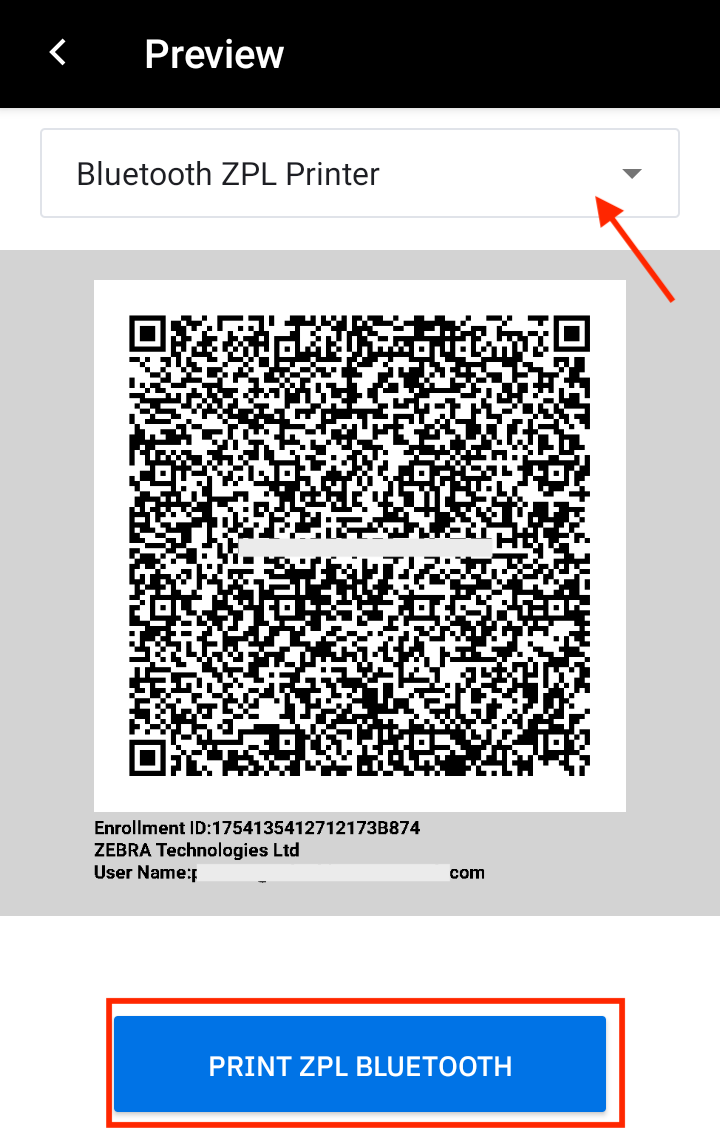
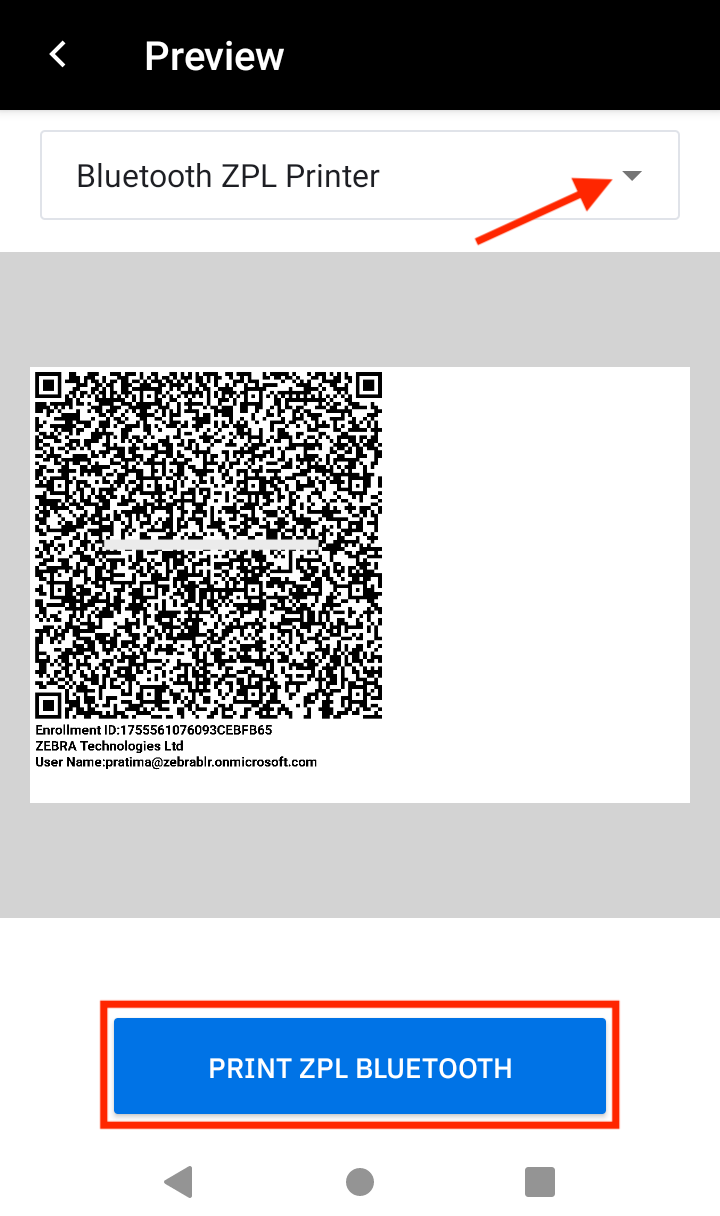
[TUT-116369] IG 2.2 - zCreator

diff --git a/identityguardian/2-2/usage/index.html b/identityguardian/2-2/usage/index.html
@@ -313,7 +313,7 @@ Other features:
 
 
 <ul>
-<li>Enter ID or email (<strong>Note:</strong> This is case-sensitive — the string entered <em>must</em> exactly match that from the identity provider. Discrepancies may lead to authentication issues or failure if using the <a href="#autofillssologin">Auto-Fill SSO Login</a> feature.)</li>
+<li>Enter ID or email (Maximum of 60 characters. <strong>Note:</strong> This is case-sensitive — the string entered <em>must</em> exactly match that from the identity provider. Discrepancies may lead to authentication issues or failure if using the <a href="#autofillssologin">Auto-Fill SSO Login</a> feature.)</li>
 
 <li>(Optional) Select the appropriate user role (options vary based on your adminstrator setup)</li>
 
@@ -334,31 +334,42 @@ Other features:
 <li>Position your face within the device screen for the photo capture. Capture 1 to 3 facial photos that may vary based on the individual's look, for example, with eyeglasses, hat, etc. Confirm the photo capture(s). Tap <strong>Add</strong> to capture additional photos. Tap <strong>Next</strong> when done.
 <img alt="image" style="height:350px" src="face-capture-added.png"></li>
 
-<li>The user barcode is generated and saved as a PDF file in the <code>/enterprise/usr/profiles</code> folder on the device. Tap <strong>Next.</strong>
+<li>The user barcode is generated. Tap <strong>Next.</strong>
 <img alt="image" style="height:350px" src="barcode.png"></li>
 
-<li>Complete the enrollment process by choosing one of the following:
+<li>Complete the enrollment process by choosing one of the following, based on configurations by your administrator:
 
 
 <ul>
 <li><strong>No Barcodes:</strong> If barcode printing is not configured, tap <strong>Save</strong> to finalize the enrollment process.
 <img alt="image" style="height:350px" src="standard-enrollment-save.png"></li>
 
-<li><strong>Print or Share the Barcode:</strong> Tap <strong>Print</strong> to launch the zCreator app, where the barcode is displayed on the preview screen. For instructions on printing or sharing the barcode, see <a href="#printsharebarcode">Print &amp; Share Barcode</a>. 
+<li><strong>Print or Share the Barcode:</strong> Print and share buttons are visible.
 
 
 <ul>
-<li>After printing or sharing, tap the back button to return to Identity Guardian, then tap <strong>Continue</strong> to complete enrollment.
+<li><strong>Print or Share Barcode:</strong> Tap <strong>Print.</strong> This launches the zCreator app with the barcode displayed on the preview screen. For instructions on printing or sharing the barcode, see <a href="#printsharebarcode">Print &amp; Share Barcode</a>. After printing or sharing, tap the back button in zCreator to return to Identity Guardian, then tap <strong>Continue</strong> to complete enrollment. <strong>Note:</strong> This option does not save the barcode.
 <table>
-<tbody><tr>
-    <td><img alt="image" style="height:350px" src="standard-enrollment-print.png"></td>
-    <td>&nbsp;&nbsp;&nbsp;&nbsp;&nbsp;</td>
-    <td><img alt="image" style="height:350px" src="congrats-shared.png"></td>
-</tr>
+    <tbody><tr>
+        <td><img alt="image" style="height:350px" src="standard-enrollment-print.png"></td>
+        <td>&nbsp;&nbsp;&nbsp;&nbsp;&nbsp;</td>
+        <td><img alt="image" style="height:350px" src="standard-enroll-print-preview.png"></td>
+        <td>&nbsp;&nbsp;&nbsp;&nbsp;&nbsp;</td>
+        <td><img alt="image" style="height:350px" src="congrats-shared.png"></td>
+    </tr>
+</tbody></table></li>
+
+<li><strong>Save Barcode:</strong> Tap <strong>Save.</strong> The barcode is saved as a PDF file in the <code>/enterprise/usr/profiles</code> folder on the device, accessible by <a href="#afterenrollment">zCreator</a> after enrollment.
+<table>
+    <tbody><tr>
+        <td><img alt="image" style="height:350px" src="standard-enrollment-print.png"></td>
+        <td>&nbsp;&nbsp;&nbsp;&nbsp;&nbsp;</td>
+        <td><img alt="image" style="height:350px" src="congrats-shared.png"></td>
+    </tr>
 </tbody></table></li></ul>
 </li>
 
-<li><strong>Save the Barcode:</strong> To skip printing or sharing the barcode immediately, tap <strong>Save,</strong> and then tap <strong>Continue</strong> to finalize the enrollment process.
+<li><strong>Save the Barcode:</strong> Save button is visible. To save the barcode without printing or sharing, tap <strong>Save.</strong> A message appears indicating the barcode was generated. Tap <strong>Continue</strong> to finalize the enrollment process.
 <table>
 <tbody><tr>
     <td><img alt="image" style="height:350px" src="standard-enrollment-save.png"></td>
@@ -369,7 +380,7 @@ Other features:
 </li>
 </ol>
 
-<p><strong>Optional:</strong> If using the <a href="#printsharebarcode">zCreator app</a>, open zCreator at any time to view, print or share the saved barcode.</p>
+<p>To retrieve the saved barcode for printing or sharing after enrollment, use the <a href="#printsharebarcode">zCreator app</a>. Open zCreator at any time to view, print or share the stored barcode.</p>
 
 <p>After completing enrollment, the user can then <a href="../usage/#signinauthentication">sign in</a> to the shared device where the administrator has deployed the authentication profile.</p>
 
@@ -396,7 +407,7 @@ Other features:
 
 
 <ul>
-<li><strong>Employee ID or Email -</strong> This is populated based on the user ID entered in the SSO login screen</li>
+<li><strong>Employee ID or Email -</strong> This is populated based on the user ID entered in the SSO login screen. Maximum of 60 characters.</li>
 
 <li><strong>Role -</strong> This is populated based on the user ID entered and their role mapped in their SSO provider.</li>
 
@@ -433,6 +444,8 @@ Other features:
 <p>To print or share the saved barcode, launch the <a href="#printsharebarcode">zCreator app</a> at any time.</p>
 
 <p>After completing enrollment, the user can then <a href="../usage/#signinauthentication">sign in</a> to the shared device.</p>
+
+<p><strong>Note:</strong> To exit self-enrollment in the middle of the process, the user must repeatedly tap the back button until the Identity Guardian lock screen is displayed.</p>
 
 <hr>
 
@@ -543,6 +556,8 @@ Other features:
 
 <p>Unique, encrypted QR Codes serve as a secure authentication method for signing into <a href="../setup/#shareddevice">Shared Devices</a>. These barcodes are created based on either facial recognition or a passcode. Using the <strong>zCreator app,</strong> users can print or share their QR Codes during the <a href="../setup/#standardenrollment">Standard Enrollment</a> (if configured by the administrator) or <a href="../setup/#selfenrollment">Self-Enrollment</a> process, as well as after enrollment is complete. </p>
 
+<p>When previewing barcodes, the Preview screen displays the barcode in portrait mode and up to 35 characters are displayed for the user name, even if the actual name is longer in length. </p>
+
 <p><strong>Key differences between enrollment methods:</strong></p>
 
 <ul>
@@ -571,7 +586,7 @@ Other features:
 <li><strong>Network printers (WiFi or Ethernet)</strong></li></ul>
 </li>
 
-<li><strong>Canon Printers -</strong> <em>For supported Canon printers (see <a href="../setup/#requirements">Requirements</a>):</em> 
+<li><strong>Canon Printers -</strong> <em>For supported Canon printers (see <a href="../setup/#printsharebarcode">Requirements</a>):</em> 
 
 
 <ul>
@@ -619,9 +634,7 @@ Other features:
 <p>Tap <strong>Printer ZPL Bluetooth</strong> to initiate printing. If the device and printer are not already paired, the user is prompted to pair them. Once paired, a confirmation message appears upon successful printing.
 <img alt="image" style="height:350px" src="zcreator-bt-print.png"></p></li>
 
-<li><p><strong>Share To:</strong> </p>
-
-<p>Tap <strong>Share To.</strong> 
+<li><p><strong>Share To:</strong> Shares the barcode as <code>shared_image.png</code>. Tap <strong>Share To.</strong> 
 <img alt="image" style="height:350px" src="zcreator-share-to.png"></p>
 
 <p>Select one of the following options:</p>
@@ -640,16 +653,16 @@ Other features:
 <li><strong>Gmail -</strong> Ensure a Gmail account is added beforehand. Once added, select the Gmail account to open the compose email screen with the barcode attached as a .PNG file. 
 <img alt="image" style="height:350px" src="zcreator-share.png"></li></ul></li>
 
-<li><p><strong>NFC Tap &amp; Pair:</strong> Ensure NFC is enabled on the device and printer. If using Bluetooth, the printer and device must be paired. To use this feature:</p></li></ul>
+<li><p><strong>NFC Tap &amp; Pair:</strong> Ensure that NFC is enabled on both the device and printer. If connecting via Bluetooth, the printer and device must be paired. To use this feature:</p></li></ul>
 
 <ol>
 <li>Tap the device near the printer's NFC tag.</li>
 
-<li>The <strong>NFC Tap &amp; Pair</strong> screen appears and initiates the process to detect the printer's connection method in the following order: Ethernet, WiFi, and Bluetooth. </li>
+<li>The <strong>NFC Tap &amp; Pair</strong> screen appears and initiates the discovery process to locate nearby printers. Printers are discovered in the following order: Ethernet, WiFi, and Bluetooth. This process may take up to 30 seconds.</li>
 
-<li>Once the connection is detected, the Preview screen displays with the appropriate connection method (e.g. Bluetooth ZPL Printer). </li>
+<li>Once the printer is found, the Preview screen displays, showing the appropriate connection method (e.g. Bluetooth ZPL Printer). </li>
 
-<li>Follow the instructions based on the detected method:
+<li>Follow the instructions based on the connection method:
 
 
 <ul>
@@ -728,22 +741,24 @@ Other features:
 </li></ul>
 </li>
 
-<li><strong>Character Limitations for User Names in Barcodes:</strong>
+<li><strong>Preview Screen Character Limitations:</strong>
 
 
 <ul>
-<li>Up to 60 characters are supported through Identity Guardian.</li>
+<li>When tapping the <strong>Print</strong> button in Identity Guardian during user enrollment, the Preview screen in zCreator displays the user name with a maximum length of characters.</li>
 
-<li>When selecting a PDF file, the character limit is reduced to 59.</li></ul>
+<li>When opening a .PDF from the main screen of the zCreator app, the Preview screen limits the displayed user name to 35 characters, even if the actual user name exceeds this length.</li></ul>
 </li>
 
 <li><strong>QR Code Size Variation for Zebra Printers:</strong> The actual size of the QR code may vary slightly from the specified dimensions, with a possible deviation of 0.1 cm.</li>
+
+<li><strong>QR Codes Can be Scanned Directly from the Preview Screen:</strong> A QR Code displayed on a device can be scanned by another device straight from the Preview screen.</li>
 </ul>
 
 <p><strong>Connectivity and Technical Issues:</strong> </p>
 
 <ul>
-<li><strong>Wi-Fi Connection Issues:</strong> If the Wi-Fi connection is not established properly, users may encounter the following error message: “com.zebra.sdk.comm.Connect.ioException: Could not open connection.” In such cases, users should attempt to reconnect to the printer.</li>
+<li><strong>Wi-Fi Connection Issues:</strong> If the Wi-Fi connection is not established properly, users may encounter an error message. In such cases, users should attempt to reconnect to the printer.</li>
 
 <li><strong>Bluetooth Pairing for Printing:</strong> If the mobile device is not paired with the printer during the first Bluetooth print request, users will receive a prompt to pair with the device, which must be accepted to proceed. <br><strong>Note:</strong> On some printers, printing may not begin immediately after pairing. Users may need to re-initiate the print request.</li>
 

diff --git a/identityguardian/2-2/setup/index.html b/identityguardian/2-2/setup/index.html
@@ -662,7 +662,7 @@
 
 <p>During the enrollment process, sensitive user data, such as biometric facial images and passcodes, is encrypted using an enrollment key. <em>This key is an encrypted public key derived from the organization’s certificate</em> and configured via Identity Guardian Managed Configuration. For guidance on generating an enrollment key, see <a href="../mc/#enrollmentconfiguration">Enrollment Configuration</a>. It is essential to ensure that the device used for enrollment is provisioned with the correct Enrollment Configuration.</p>
 
-<p>For <em>Standard Enrollment,</em> user data is securely encrypted and stored within a <strong>unique barcode</strong> saved in the <code>/enterprise/usr/Profiles</code> folder during user enrollment. This barcode can be shared and printed through the <strong><a href="#printsharebarcode">zCreator</a></strong> app. <em><strong>The barcode must be printed or shared within 24 hours,</strong></em> as it will be automatically deleted after this timeframe to ensure that personal information is not retained on the device or in the cloud. </p>
+<p>For <em>Standard Enrollment,</em> user data is securely encrypted and stored within a <strong>unique barcode</strong> saved in the <code>/enterprise/usr/Profiles</code> folder during user enrollment when the user taps on the <strong>Save</strong> button. This barcode can be shared and printed through the <strong><a href="#printsharebarcode">zCreator</a></strong> app. <em><strong>The barcode must be printed or shared within 24 hours,</strong></em> as it will be automatically deleted after this timeframe to ensure that personal information is not retained on the device or in the cloud. </p>
 
 <p>For temporary user profiles with either enrollment method, organizations have the option to configure barcodes with expiration dates and times. To further enhance security, organizations may choose to implement facial biometrics as an authentication method, or alternatively, use SSO instead of individual barcodes.</p>
 
@@ -711,7 +711,7 @@
 <p>Follow these steps to set up the dedicated enrollment device, enabling users to register into the system from a single device:</p>
 
 <ol>
-<li><strong>Create an Enrollment profile:</strong> Use Managed Configurations to set up the Enrollment Profile with the following essential settings. Additional settings can be adjusted based on your enrollment requirements:
+<li><strong>Create an Enrollment profile:</strong> Configure the Enrollment Profile using Managed Configurations, ensuring the following key settings are applied. <em>Adjust any other unlisted settings as needed to meet your specific enrollment requirements:</em>
 
 
 <ul>
@@ -728,7 +728,7 @@
 <ul>
 <li><strong>Enrollment Key:</strong> [Enter the enrollment key to encrypt user data.]</li>
 
-<li><strong>Number of facial images to be enrolled:</strong> 1 (<strong>This applies <em>only</em> when printing barcodes,</strong> as it is the only acceptable value under this condition. For other scenarios, enter the appropriate value.)</li>
+<li><strong>Number of facial images to be enrolled:</strong> [For barcode printing, enter the value <code>1</code>, as this is the only valid value for this scenario. For other use cases, enter the appropriate value.]</li>
 
 <li><strong>Allow opening barcode while enrollment:</strong> [Enable this option to allow barcode printing during the enrollment process. This displays the <strong>Print</strong> button at the last step of enrollment.]</li></ul>
 </li></ul>
@@ -858,7 +858,7 @@ To accomplish this, follow these steps (refer to [EMM Setup](../setup/#emm)):
 <ol>
 <li><strong>Install zCreator on the devices.</strong></li>
 
-<li><strong>Create an Authentication profile:</strong> Using Managed Configurations, configure the Authentication Profile with the following settings. Adjust all other settings based on your requirements:
+<li><strong>Create an Authentication profile:</strong> Configure the Authentication Profile using Managed Configurations, ensuring the following key settings are applied. <em>Adjust any other unlisted settings as needed to meet your specific enrollment requirements:</em>
 
 
 <ul>
@@ -873,7 +873,7 @@ To accomplish this, follow these steps (refer to [EMM Setup](../setup/#emm)):
 
 
 <ul>
-<li><strong>Number of facial images to be enrolled:</strong> 1 (<strong>This applies <em>only</em> when printing barcodes,</strong> as it is the only acceptable value under this condition. For other scenarios, enter the appropriate value.)</li></ul>
+<li><strong>Number of facial images to be enrolled:</strong> [For barcode printing, enter the value <code>1</code>, as this is the only valid value for this scenario. For other use cases, enter the appropriate value.]</li></ul>
 </li>
 
 <li><a href="../mc/#authenticationconfiguration">Authentication Configuration</a>: Configure the desired settings. <i><strong>SSO must be configured as one of the Verification methods.</strong></i> Additionally, enter the <strong>Authentication Key</strong> to decrypt the user's personal information.</li>
@@ -906,10 +906,10 @@ To accomplish this, follow these steps (refer to [EMM Setup](../setup/#emm)):
         <tr>
             <td rowspan="3">Display the barcode print preview</td>
             <td>com.zebra.mdna.zcreator</td>
-            <td>android</td>
+            <td>com.zebra.mdna.zcreator.PreviewActivity</td>
         </tr>
         <tr>
-            <td>com.zebra.mdna.zcreator.PreviewActivity</td>
+            <td>android</td>
             <td>com.android.internal.app.ChooserActivity</td>
         </tr>
         <tr>
@@ -919,10 +919,10 @@ To accomplish this, follow these steps (refer to [EMM Setup](../setup/#emm)):
         <tr>
             <td rowspan="4">Print the barcode</td>
             <td>com.android.bips</td>
-            <td>com.android.bips</td>
+            <td>com.android.bips.ImagePrintActivity</td>
         </tr>
         <tr>
-            <td>com.android.bips.ImagePrintActivity</td>
+            <td>com.android.bips</td>
             <td>ImagePrintActivity</td>
         </tr>
         <tr>
@@ -939,7 +939,7 @@ To accomplish this, follow these steps (refer to [EMM Setup](../setup/#emm)):
             <td>com.zebra.mdna.zcreator.NFCPrinterConnectionActivity</td>
         </tr>
         <tr>
-            <td rowspan="2">Bluetooth Printing</td>
+            <td rowspan="3">Bluetooth Printing</td>
             <td>com.android.settings</td>
             <td>com.android.settings.bluetooth.BluetoothPairingDialog</td>
         </tr>
@@ -948,7 +948,11 @@ To accomplish this, follow these steps (refer to [EMM Setup](../setup/#emm)):
             <td>com.android.settings.bluetooth.DevicePickerActivity</td>
         </tr>
         <tr>
-            <td rowspan="4">Share to Canon</td>
+            <td>com.android.bluetooth</td>
+            <td>com.android.bluetooth.opp.BluetoothOppBtEnableActivity</td>
+        </tr>
+        <tr>
+            <td rowspan="7">Share to Canon</td>
             <td>jp.co.canon.bsd.ad.pixmaprint</td>
             <td>jp.co.canon.bsd.ad.pixmaprint.view.activity.PrintPreviewActivity</td>
         </tr>
@@ -958,20 +962,28 @@ To accomplish this, follow these steps (refer to [EMM Setup](../setup/#emm)):
         </tr>
         <tr>
             <td>jp.co.canon.bsd.ad.pixmaprint</td>
-            <td>cjp.co.canon.bsd.ad.pixmaprint.view.activity.SearchPrinterActivity</td>
+            <td>jp.co.canon.bsd.ad.pixmaprint.view.activity.SearchPrinterActivity</td>
         </tr>
         <tr>
             <td>jp.co.canon.bsd.ad.pixmaprint</td>
             <td>jp.co.canon.bsd.ad.pixmaprint.EulaActivity</td>
         </tr>
         <tr>
-            <td rowspan="8">Share to Gmail</td>
-            <td>com.google.android.gm</td>
-            <td>com.google.android.gm.welcome.WelcomeTourActivity</td>
+            <td>com.google.android.permissioncontroller</td>
+            <td>com.android.permissioncontroller.permission.ui.GrantPermissionsActivity</td>
         </tr>
         <tr>
+            <td>jp.co.canon.bsd.ad.pixmaprint</td>
+            <td>jp.co.canon.bsd.ad.pixmaprint.view.ijprintsetting.IJPrintSettingActivity</td>
+        </tr>
+        <tr>
+            <td>jp.co.canon.bsd.ad.pixmaprint</td>
+            <td>jp.co.canon.bsd.ad.pixmaprint.view.printing.IJPrintingActivity</td>
+        </tr>
+        <tr>
+            <td rowspan="10">Share to Gmail</td>
             <td>com.google.android.gm</td>
-            <td>com.google.android.gm.welcome.SetupAddressesActivity</td>
+            <td>com.google.android.gm.welcome.WelcomeTourActivity</td>
         </tr>
         <tr>
             <td>com.google.android.gm</td>
@@ -996,6 +1008,18 @@ To accomplish this, follow these steps (refer to [EMM Setup](../setup/#emm)):
         <tr>
             <td>com.google.android.gm</td>
             <td>com.google.android.gm.compose.ComposeActivityGmailExternal</td>
+        </tr>
+        <tr>
+            <td>com.google.android.gms</td>
+            <td>com.google.android.gms.setupservices.GoogleServicesActivity</td>
+        </tr>
+        <tr>
+            <td>com.google.android.gms</td>
+            <td>com.google.android.gms.auth.uiflows.addaccount.PreAddAccountActivity</td>
+        </tr>
+        <tr>
+            <td>com.google.android.documentsui</td>
+            <td>com.android.documentsui.picker.PickActivity</td>
         </tr>
     </tbody></table>
 
@@ -1109,7 +1133,8 @@ To share barcodes through apps, add the respective third-party package names and
 <ul>
 <li><strong>Google Play</strong></li>
 
-<li><strong><a href="https://www.zebra.com/us/en/support-downloads/software/mobile-computer-software/identity-guardian.html">Zebra support portal</a></strong></li>
+<li><strong><a href="https://www.zebra.com/us/en/support-downloads/software/mobile-computer-software/identity-guardian.html">Zebra support portal</a></strong>
+<strong>Note:</strong> The installation order of zCreator and Identity Guardian does not matter.</li>
 </ul>
 
 <h4 id="configurezcreator" class="anchor"><a class="heading-anchor" href="#configurezcreator"><span></span></a>Configure zCreator</h4>
